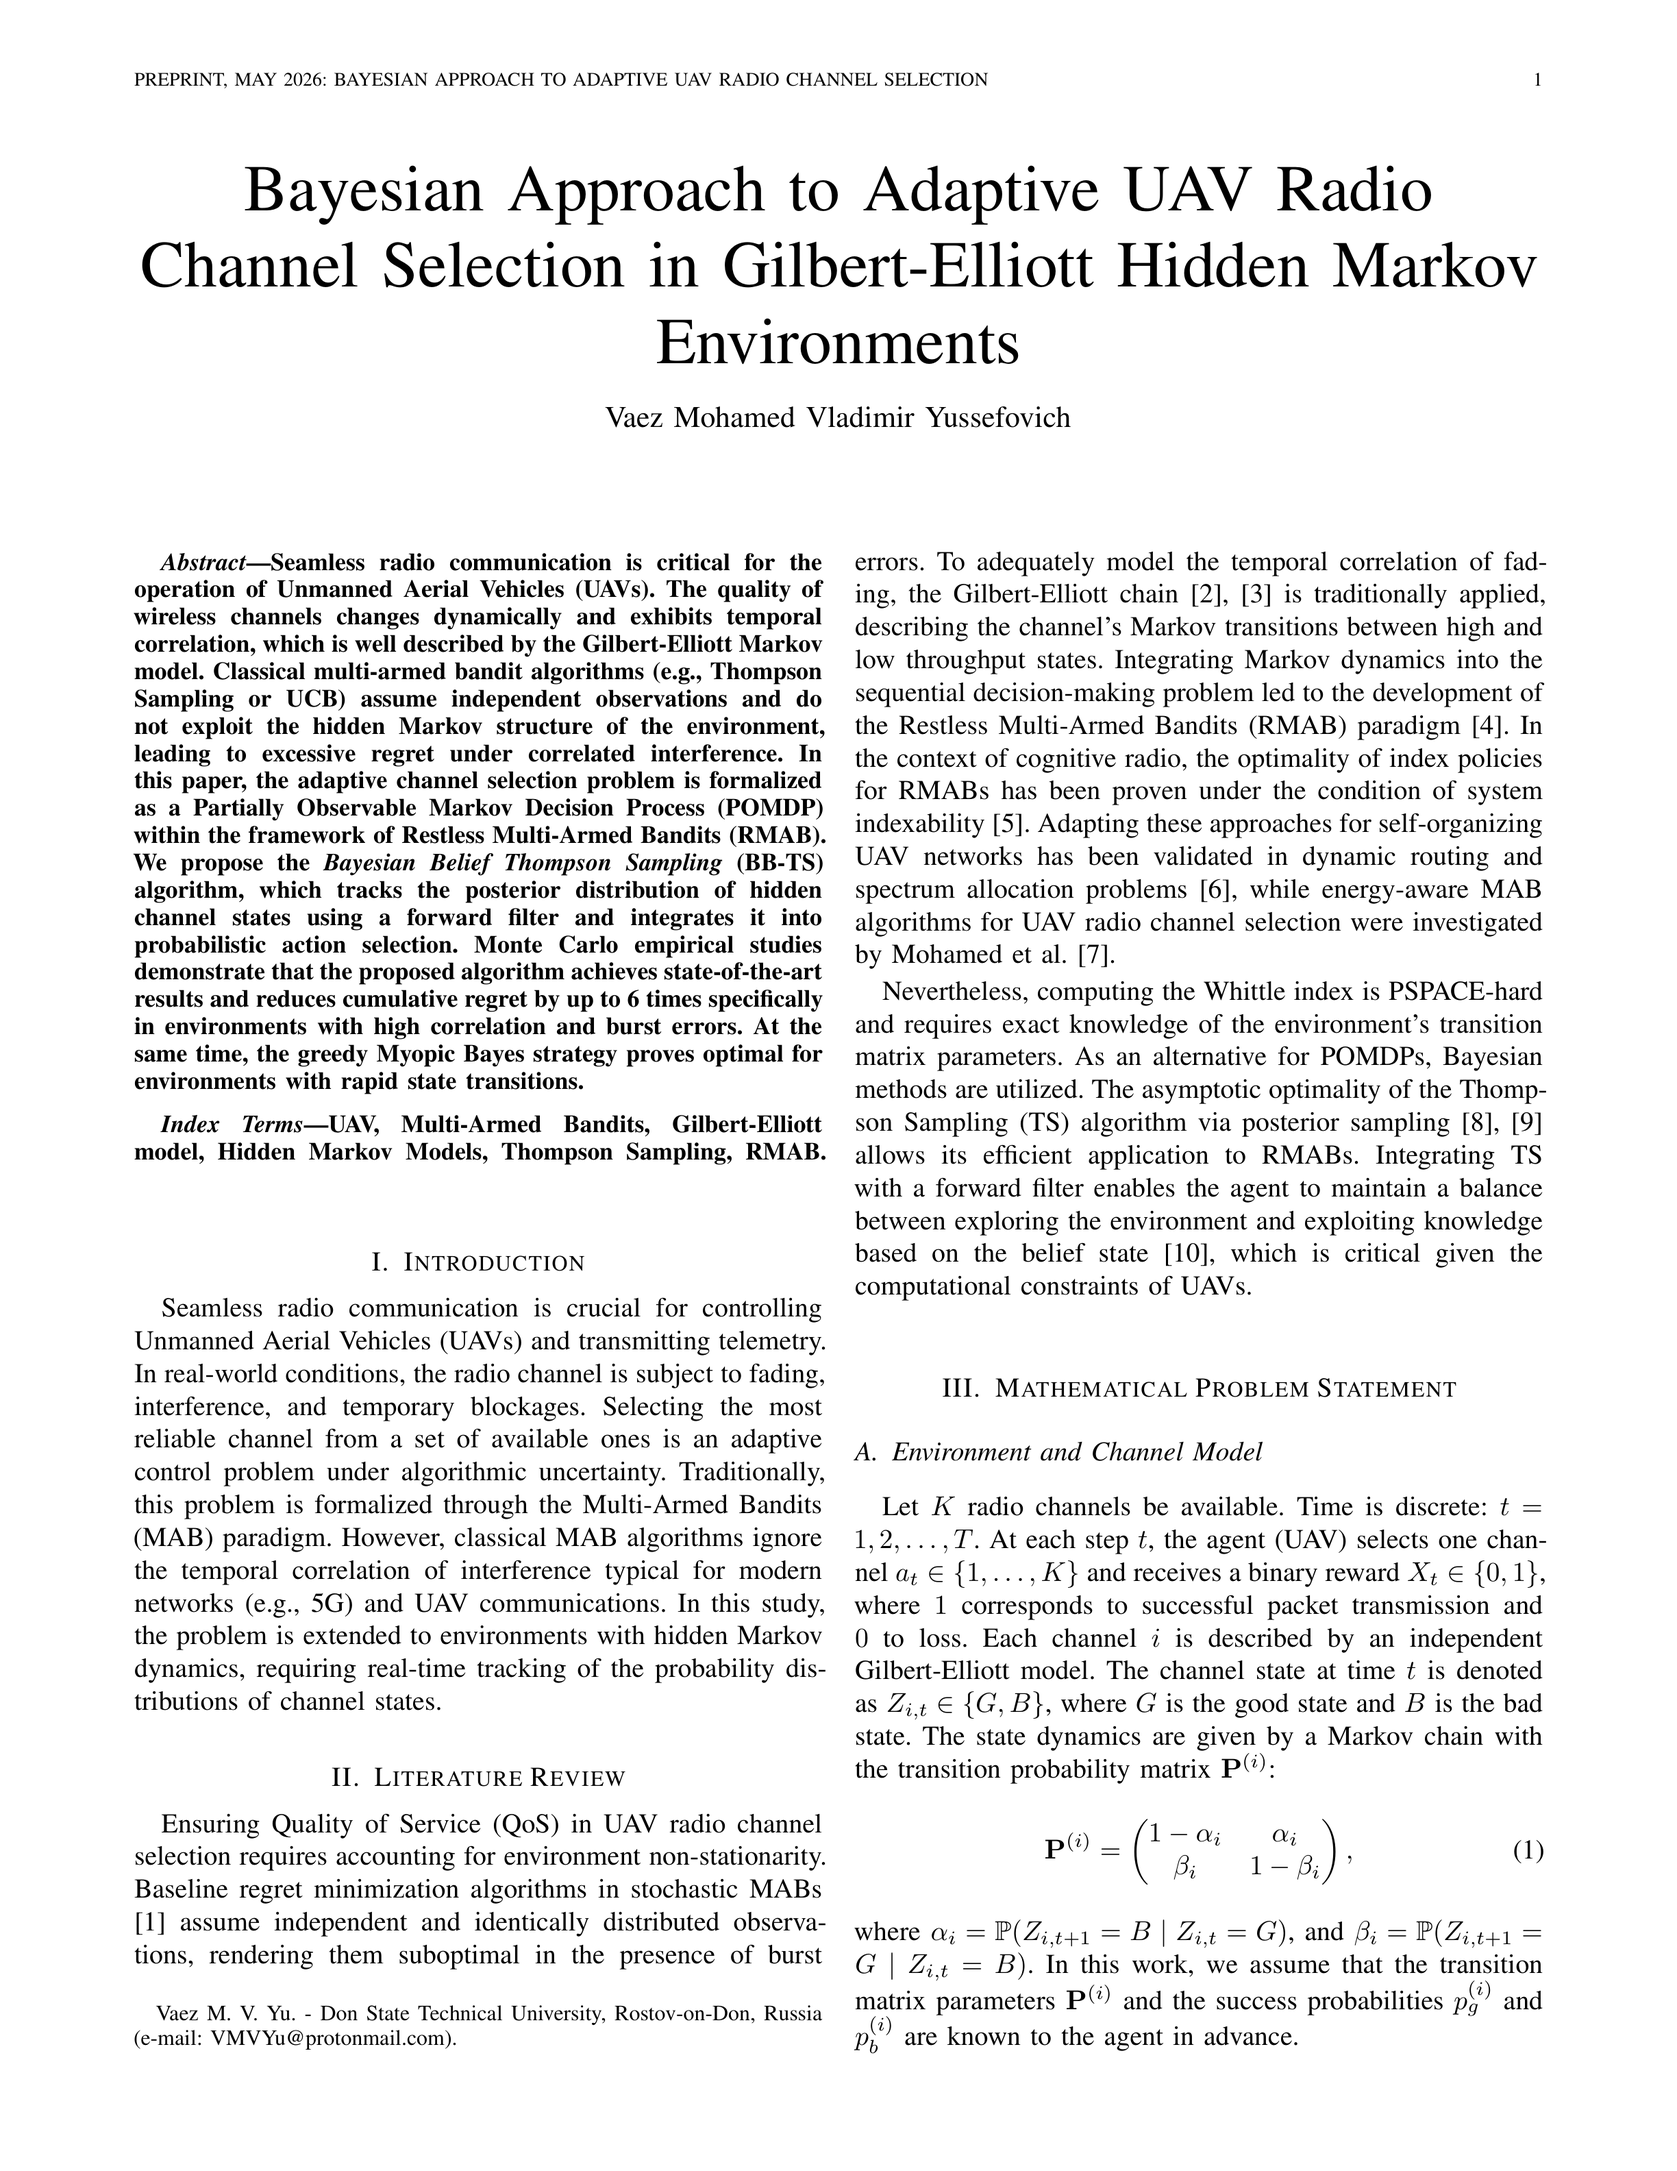
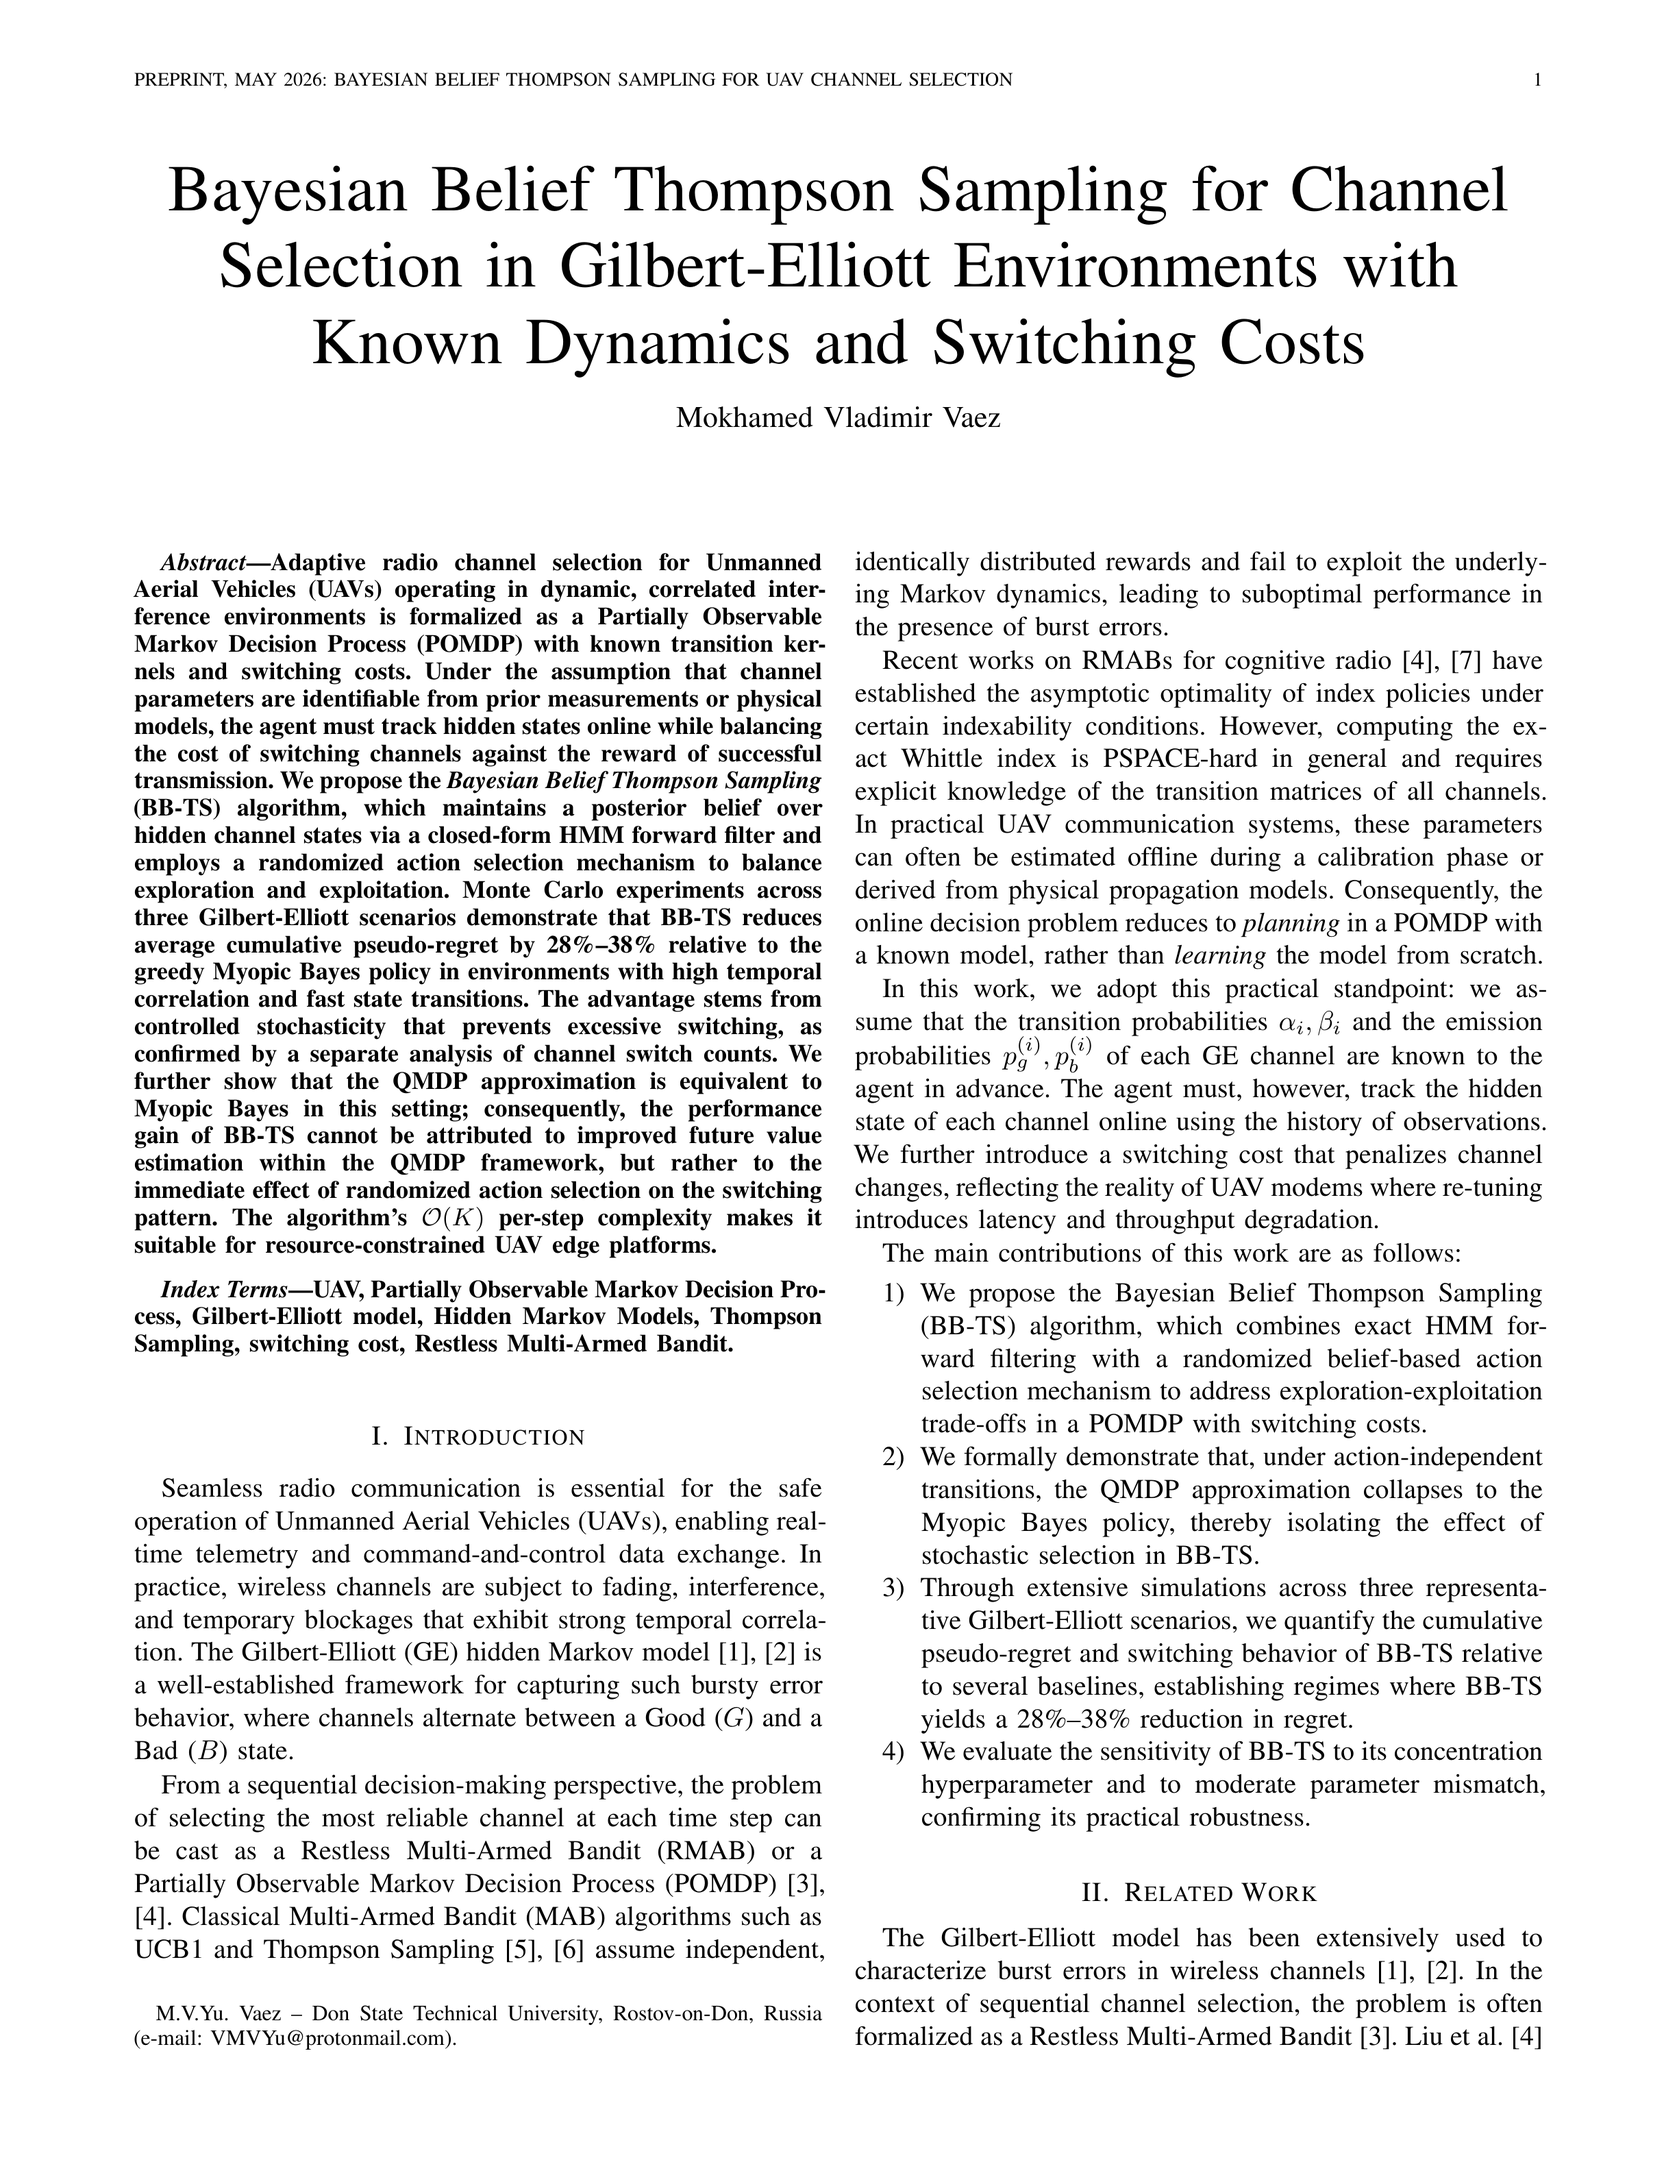
Update. Assets changed

Changed region(s): [[0.0621, 0.25, 0.9314, 0.9375], [0.0931, 0.0312, 0.9003, 0.2188]]

diff --git a/README.md b/README.md
@@ -19,7 +19,7 @@ This repository contains the implementation of the **Bayesian Belief Thompson Sa
 
 The proposed BB-TS algorithm significantly outperforms classical methods by rapidly recognizing channel degradation from just a few lost packets. The evaluation covers base, high-correlation, and fast-switching scenarios.
 
-![Regret Plot](figures/article_high_corr_regret_en.png)
+![Regret Plot](assets/article_high_corr_regret_en.png)
 
 *Comparison of cumulative regret across different strategies in a high-correlation scenario (Publication-quality plot).*
 
